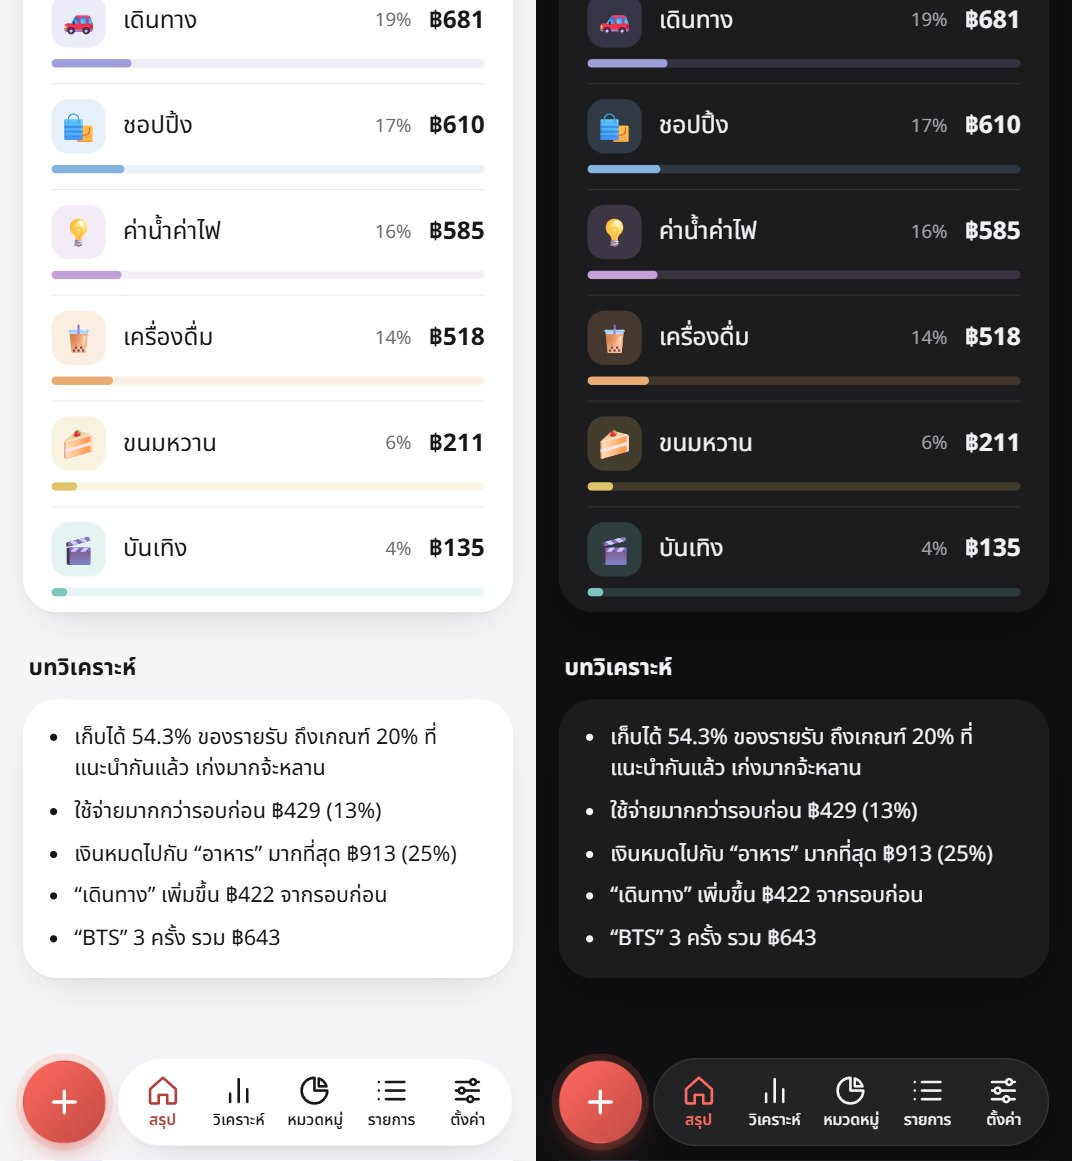
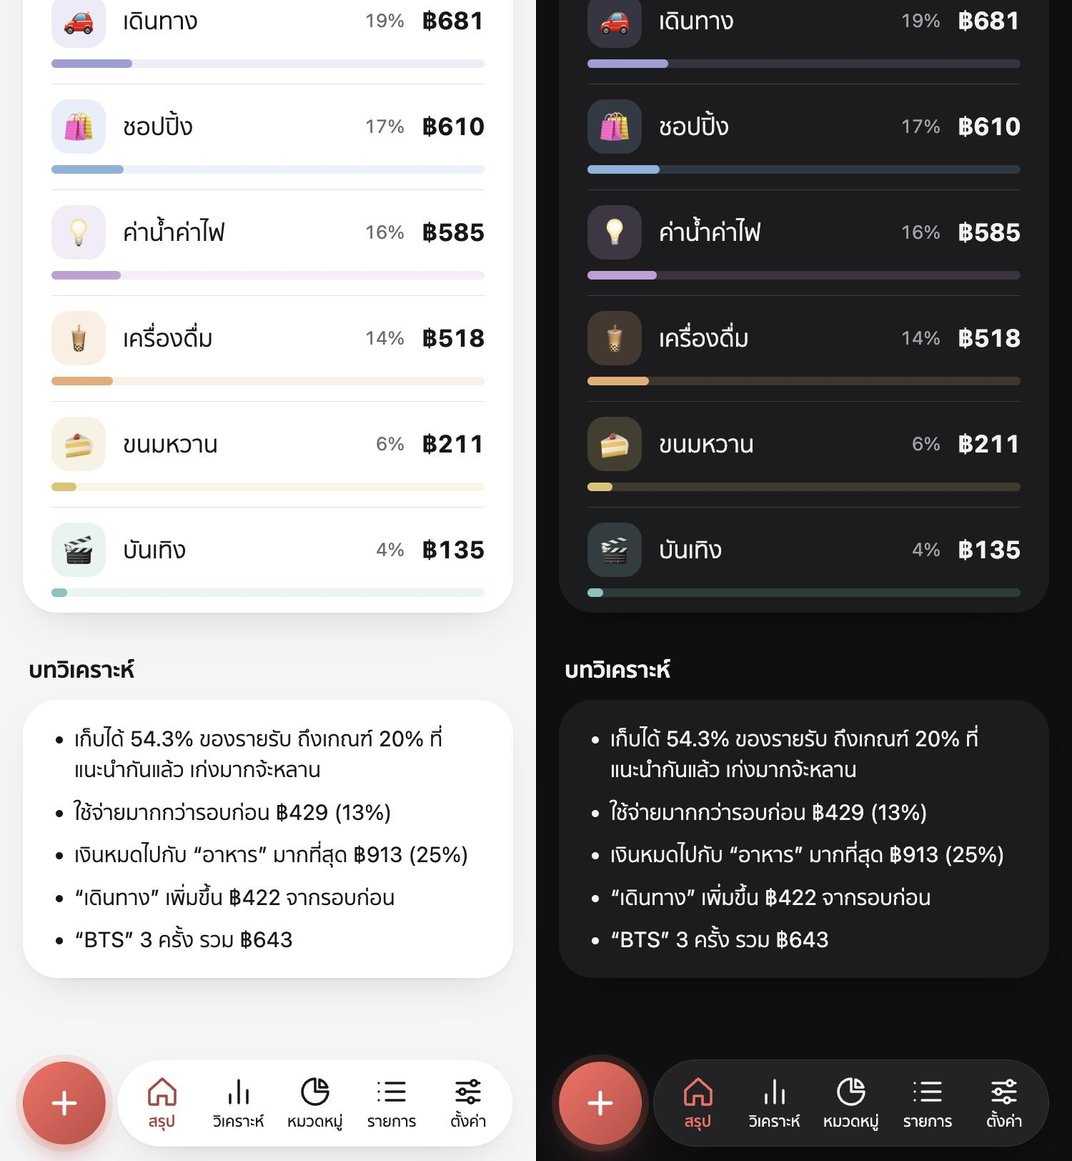
README: retake the web app pictures and add the notification settings
The web app pictures are retaken from fresh sample data in the same light and
dark pairs, so สรุป shows today's spending and the comparison with the last
period. A new picture shows ตั้งค่า → จดจากแจ้งเตือน LINE. The LINE pictures and
the hamsters are unchanged.

diff --git a/README.md b/README.md
@@ -47,6 +47,10 @@ The hamsters are from [silly hamsters](https://store.line.me/stickershop/product
 - **Recurring entries:** daily, weekly or monthly, added automatically.
 - **Bank alerts in LINE, recorded by themselves (iPhone, iOS 27+):** a Shortcuts automation sends each LINE notification that mentions บาท to `/api/notify` with the link from ตั้งค่า. Text without an amount of money stops there; the rest goes to Gemini, which records a bank, card or wallet payment and ignores chats, promotions, OTPs and declined payments. A card's void alert removes the matching payment, and a payment already recorded (the same amount and name within 2 hours, such as its slip and then its alert) isn't added twice. The Shortcut shows what was recorded as a notification, so it uses none of the LINE message quota.
 
+<p>
+  <img src="docs/notify.jpg" width="400" alt="จดจากแจ้งเตือน LINE in ตั้งค่า, light and dark">
+</p>
+
 ## Web app
 
 Opened from the chat menu with a personal signed link. No password needed. Opened without a link, the page says what ป้าคีน is and how to get one. Amounts are typed on the app's own number pad, drawn in its light or dark theme, rather than the phone's keyboard.
